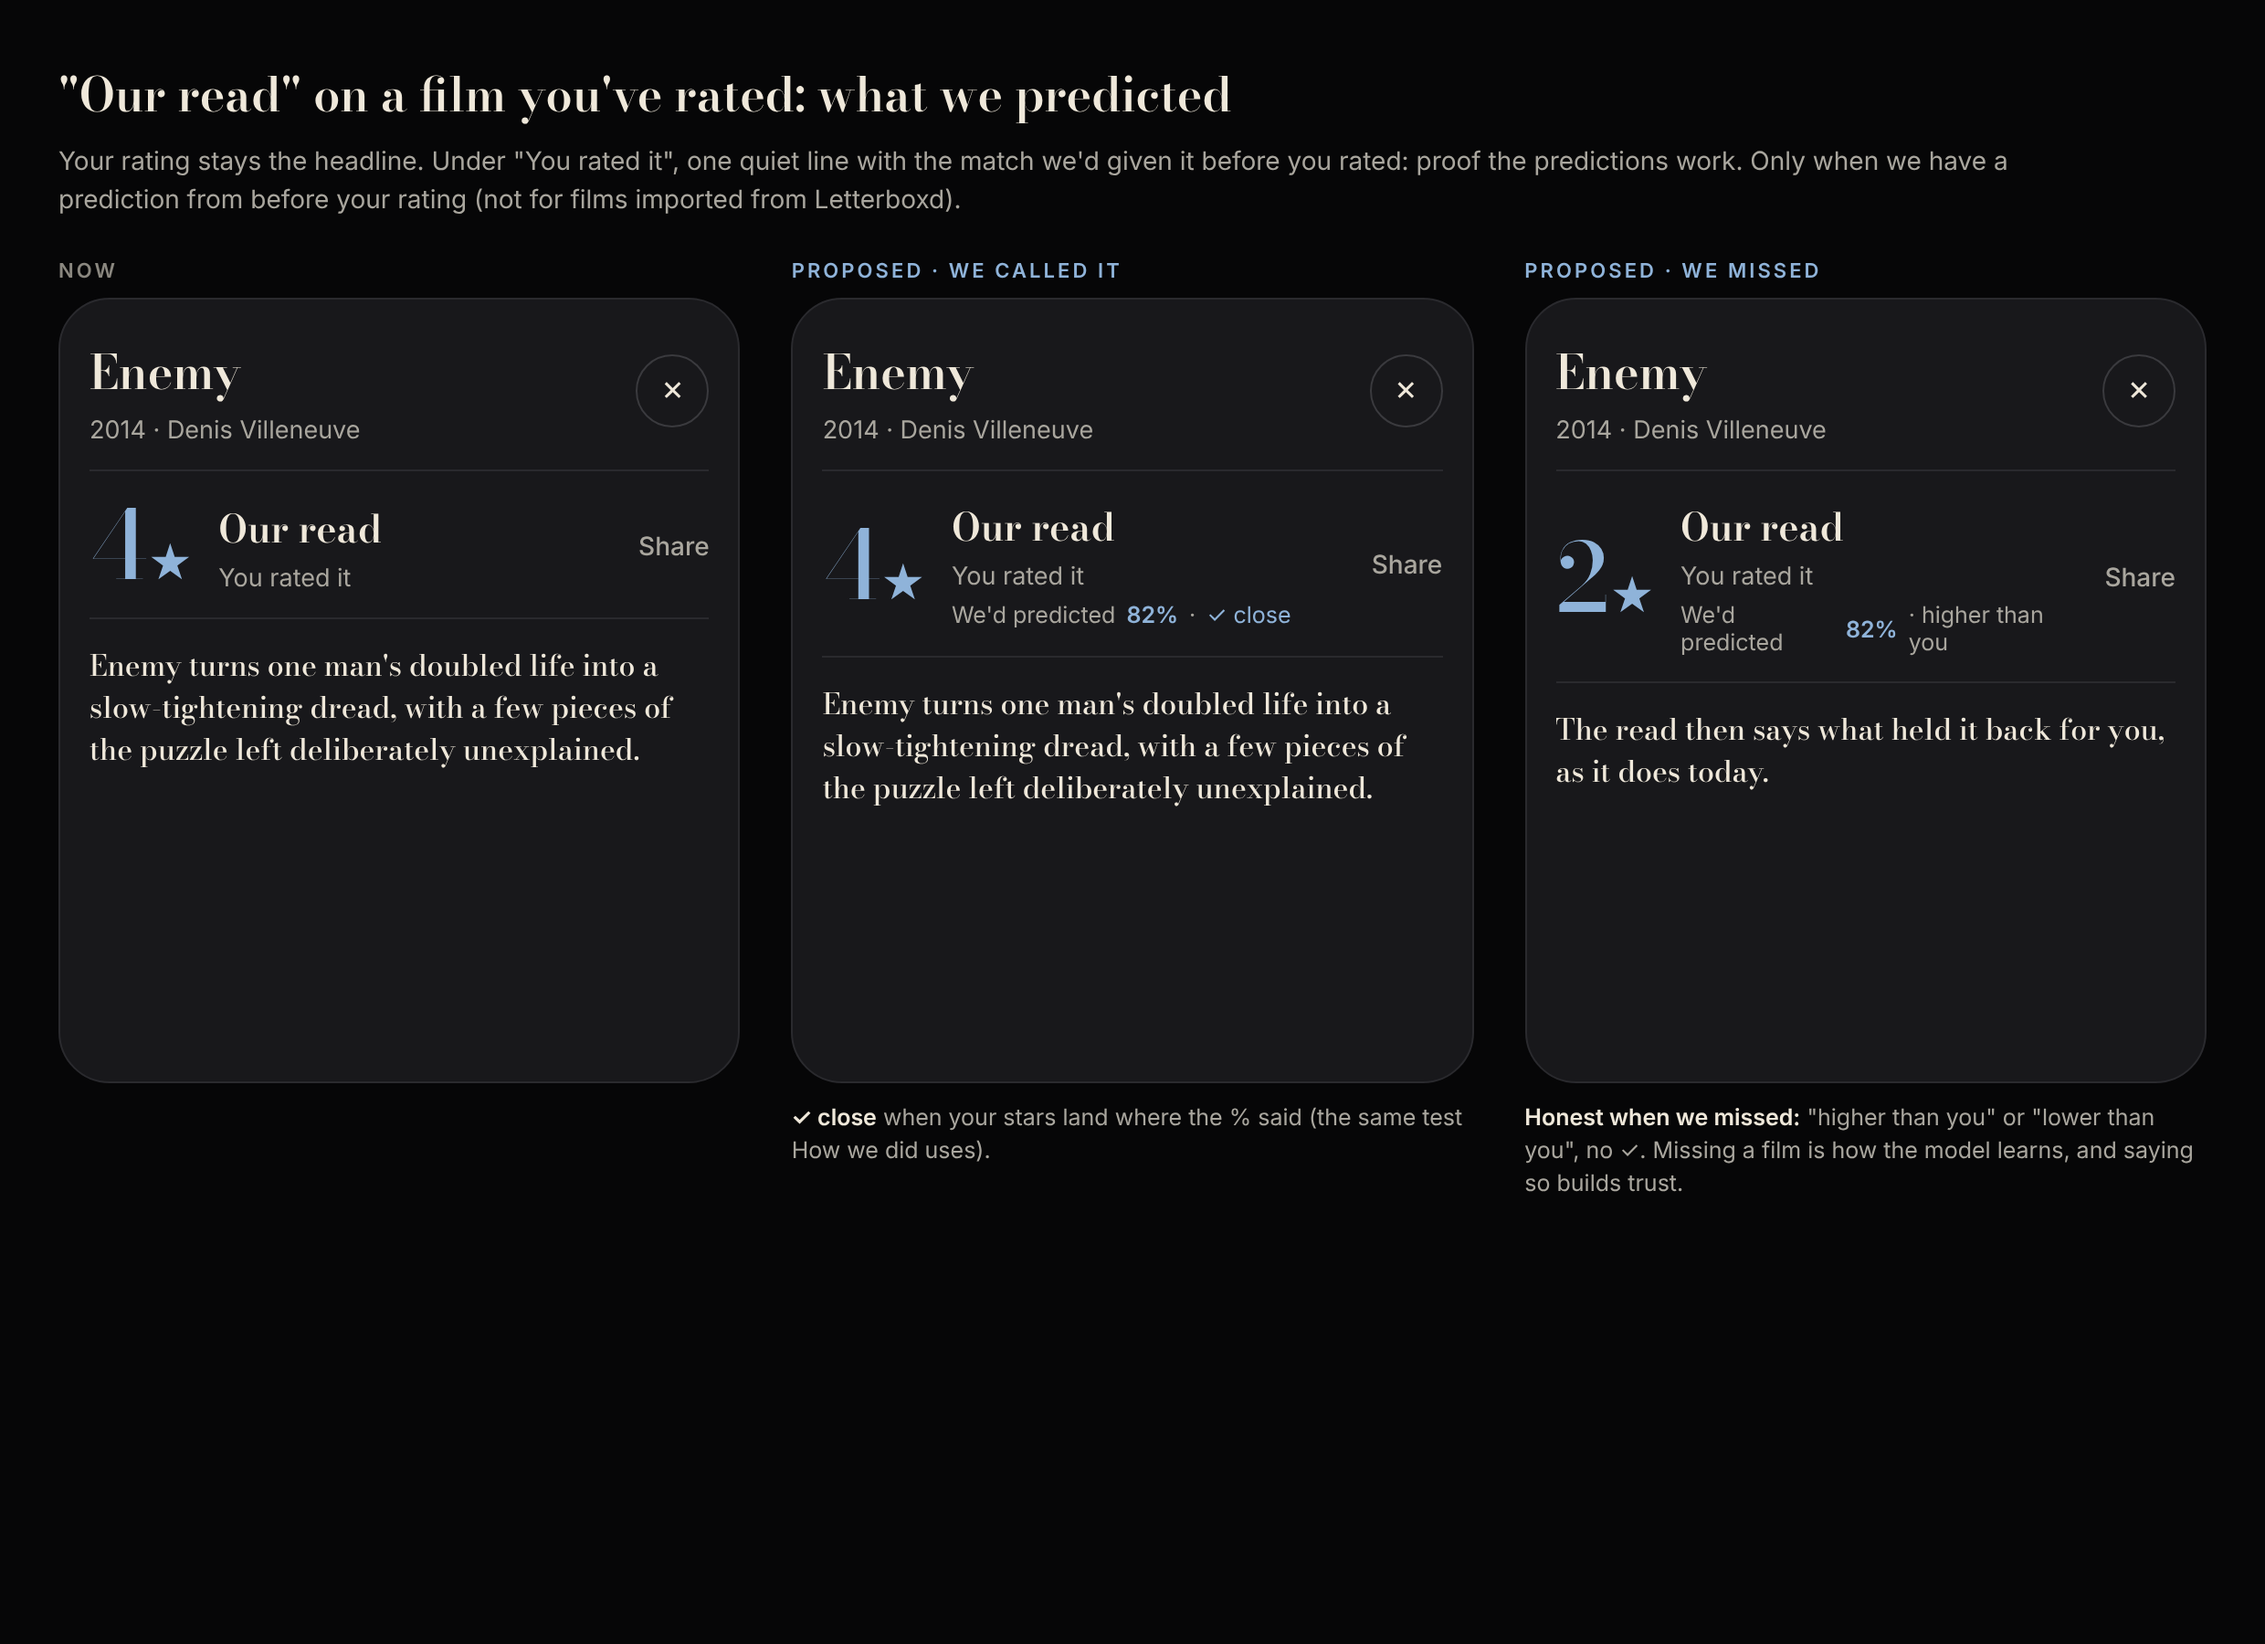
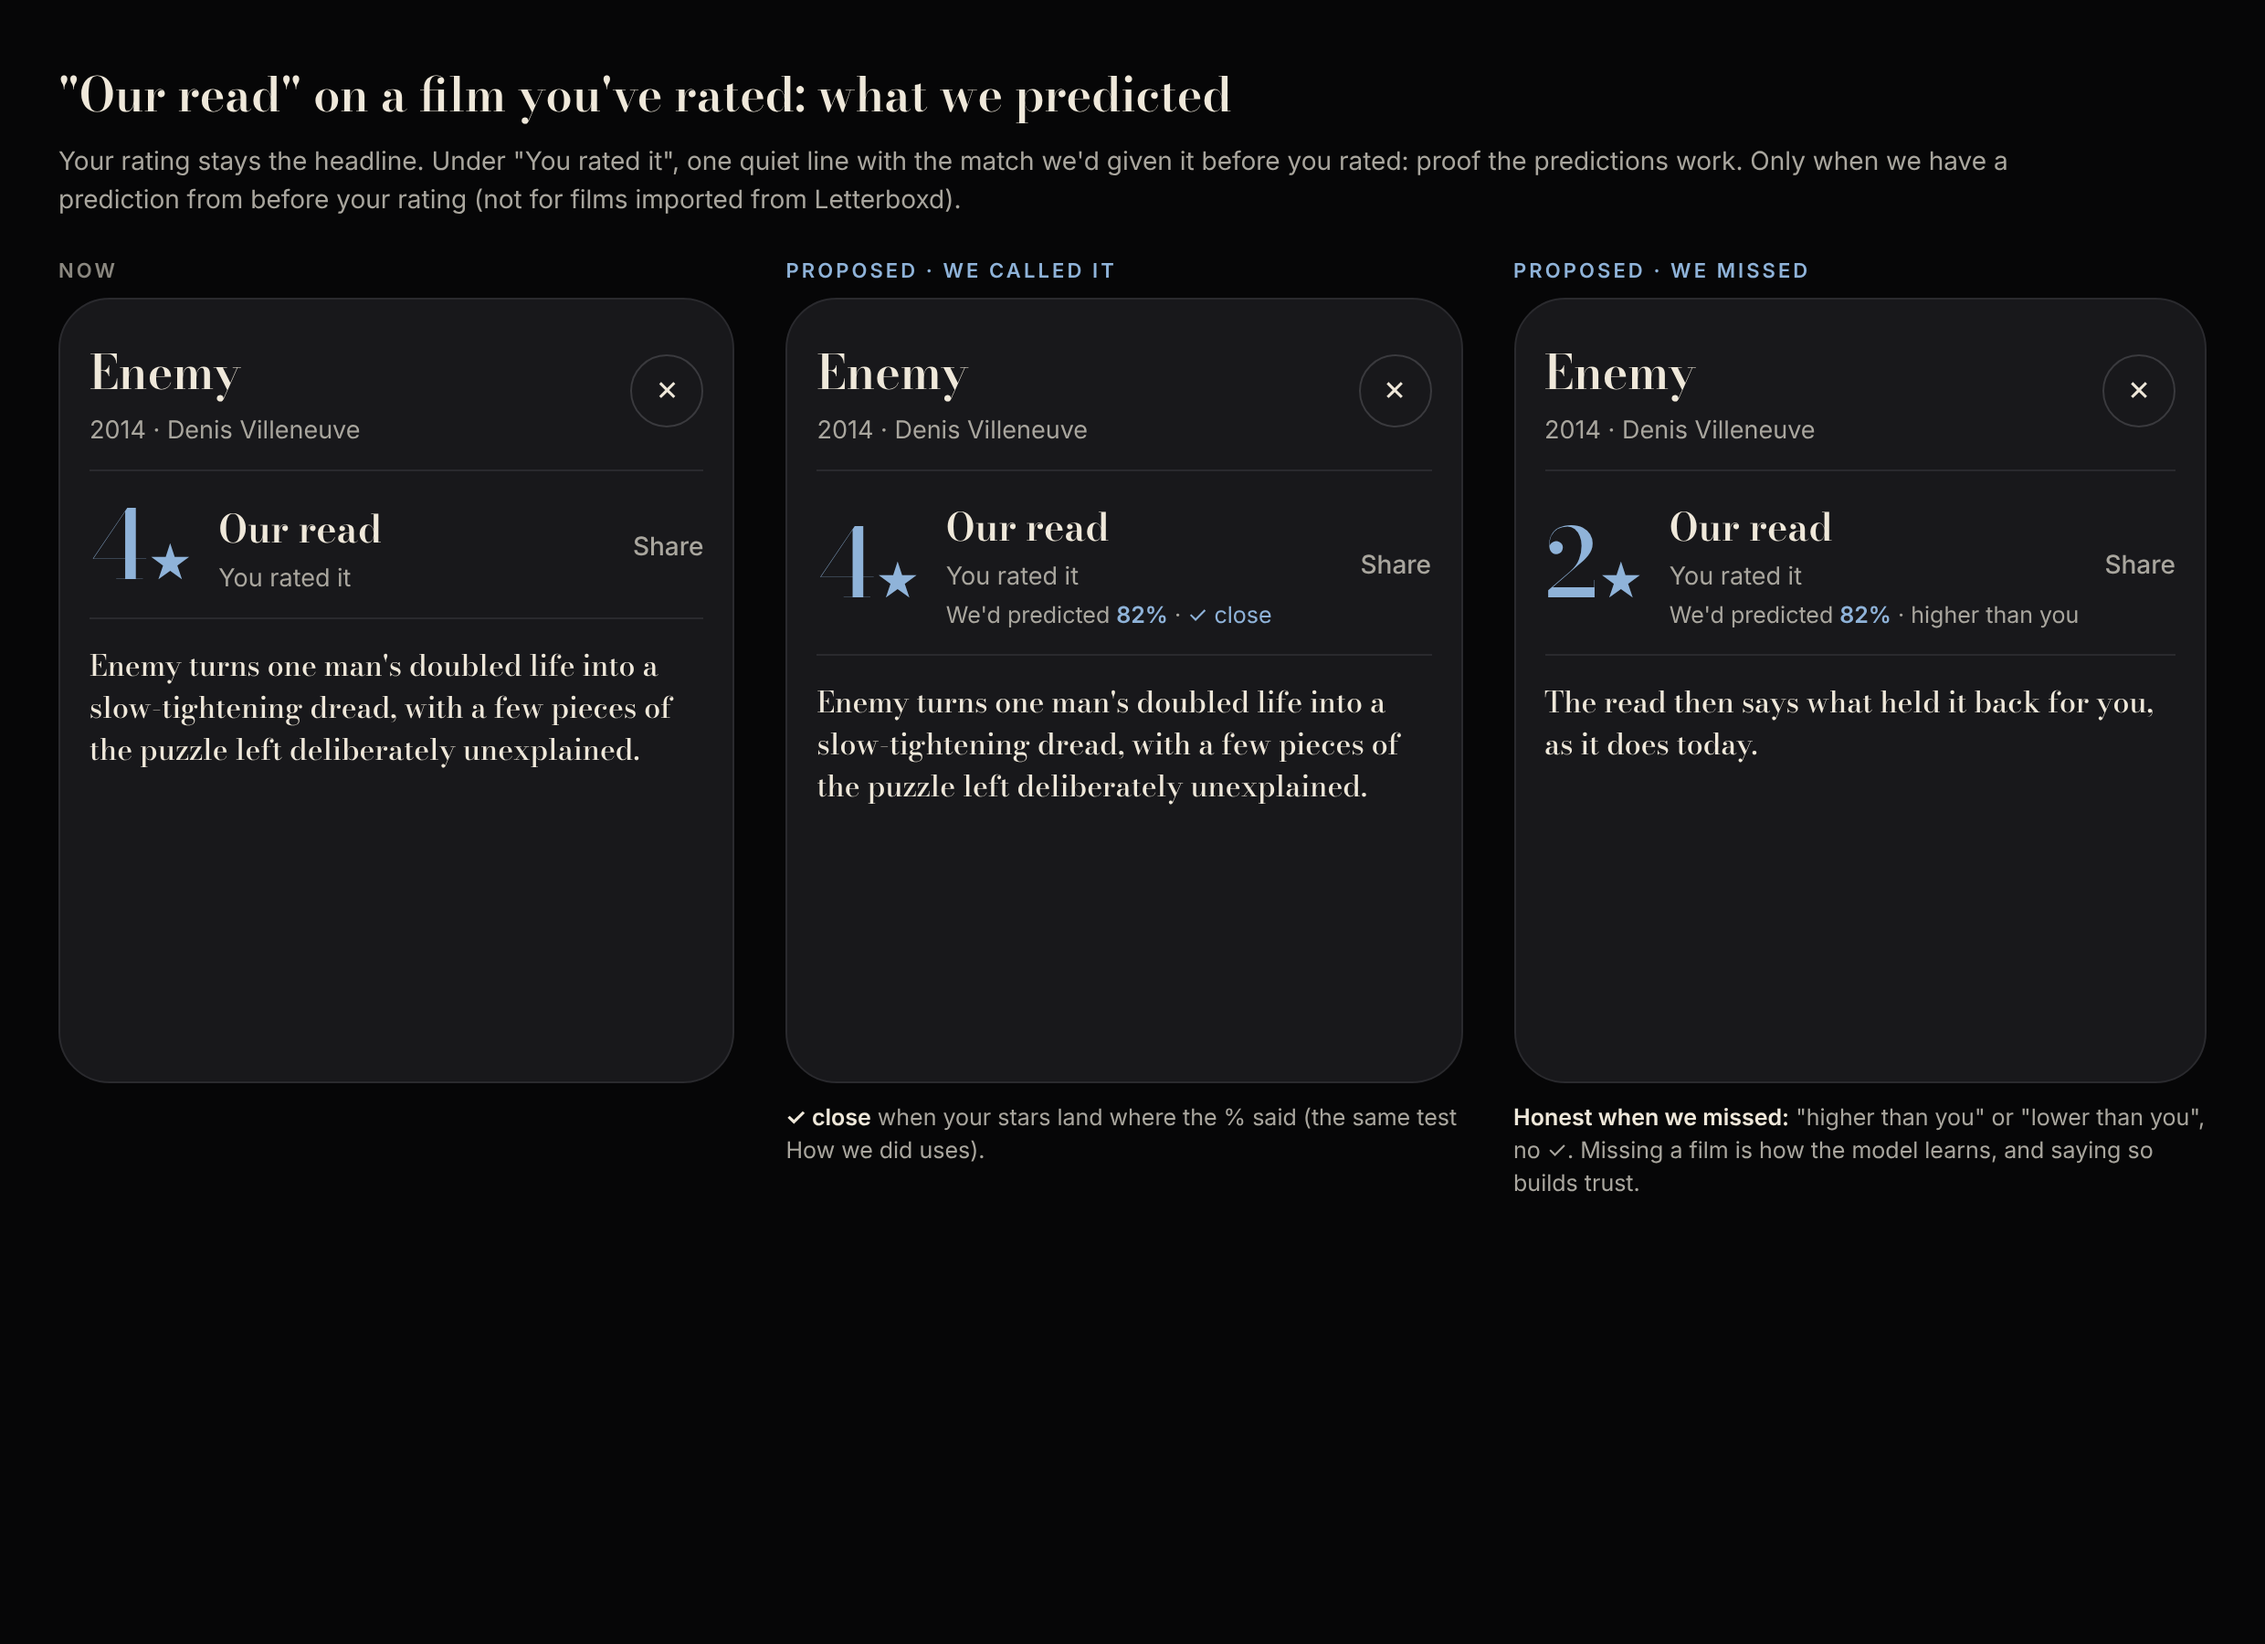
Mock: predicted line fix

diff --git a/mockups/journeys/read-predicted.html b/mockups/journeys/read-predicted.html
@@ -13,7 +13,7 @@ h1{font:600 26px 'Bodoni Moda',serif;margin-bottom:6px}.lede{color:var(--muted);
 .x{width:40px;height:40px;border-radius:50%;border:1px solid var(--line2);display:flex;align-items:center;justify-content:center;margin-left:auto}
 .hr{height:1px;background:var(--line);margin:14px 0}
 .mt{display:flex;gap:14px;align-items:center}.big{font:500 52px/1 'Bodoni Moda';color:var(--accent2)}.big small{font-size:24px}.a{font:600 21px 'Bodoni Moda'}.b{color:var(--muted);font-size:13.5px;margin-top:3px}.sh{margin-left:auto;color:var(--muted);font-size:14px;font-weight:500}
-.pred{display:inline-flex;align-items:center;gap:6px;margin-top:6px;font-size:12.5px;color:var(--muted)}.pred b{color:var(--accent2);font-weight:600}.pred .ok{color:var(--accent2)}
+.pred{display:block;white-space:nowrap;margin-top:6px;font-size:12.5px;color:var(--muted)}.pred b{color:var(--accent2);font-weight:600}.pred .ok{color:var(--accent2)}
 .rd{font:16px/1.45 'Bodoni Moda'}
 </style></head><body>
 <h1>"Our read" on a film you've rated: what we predicted</h1>
